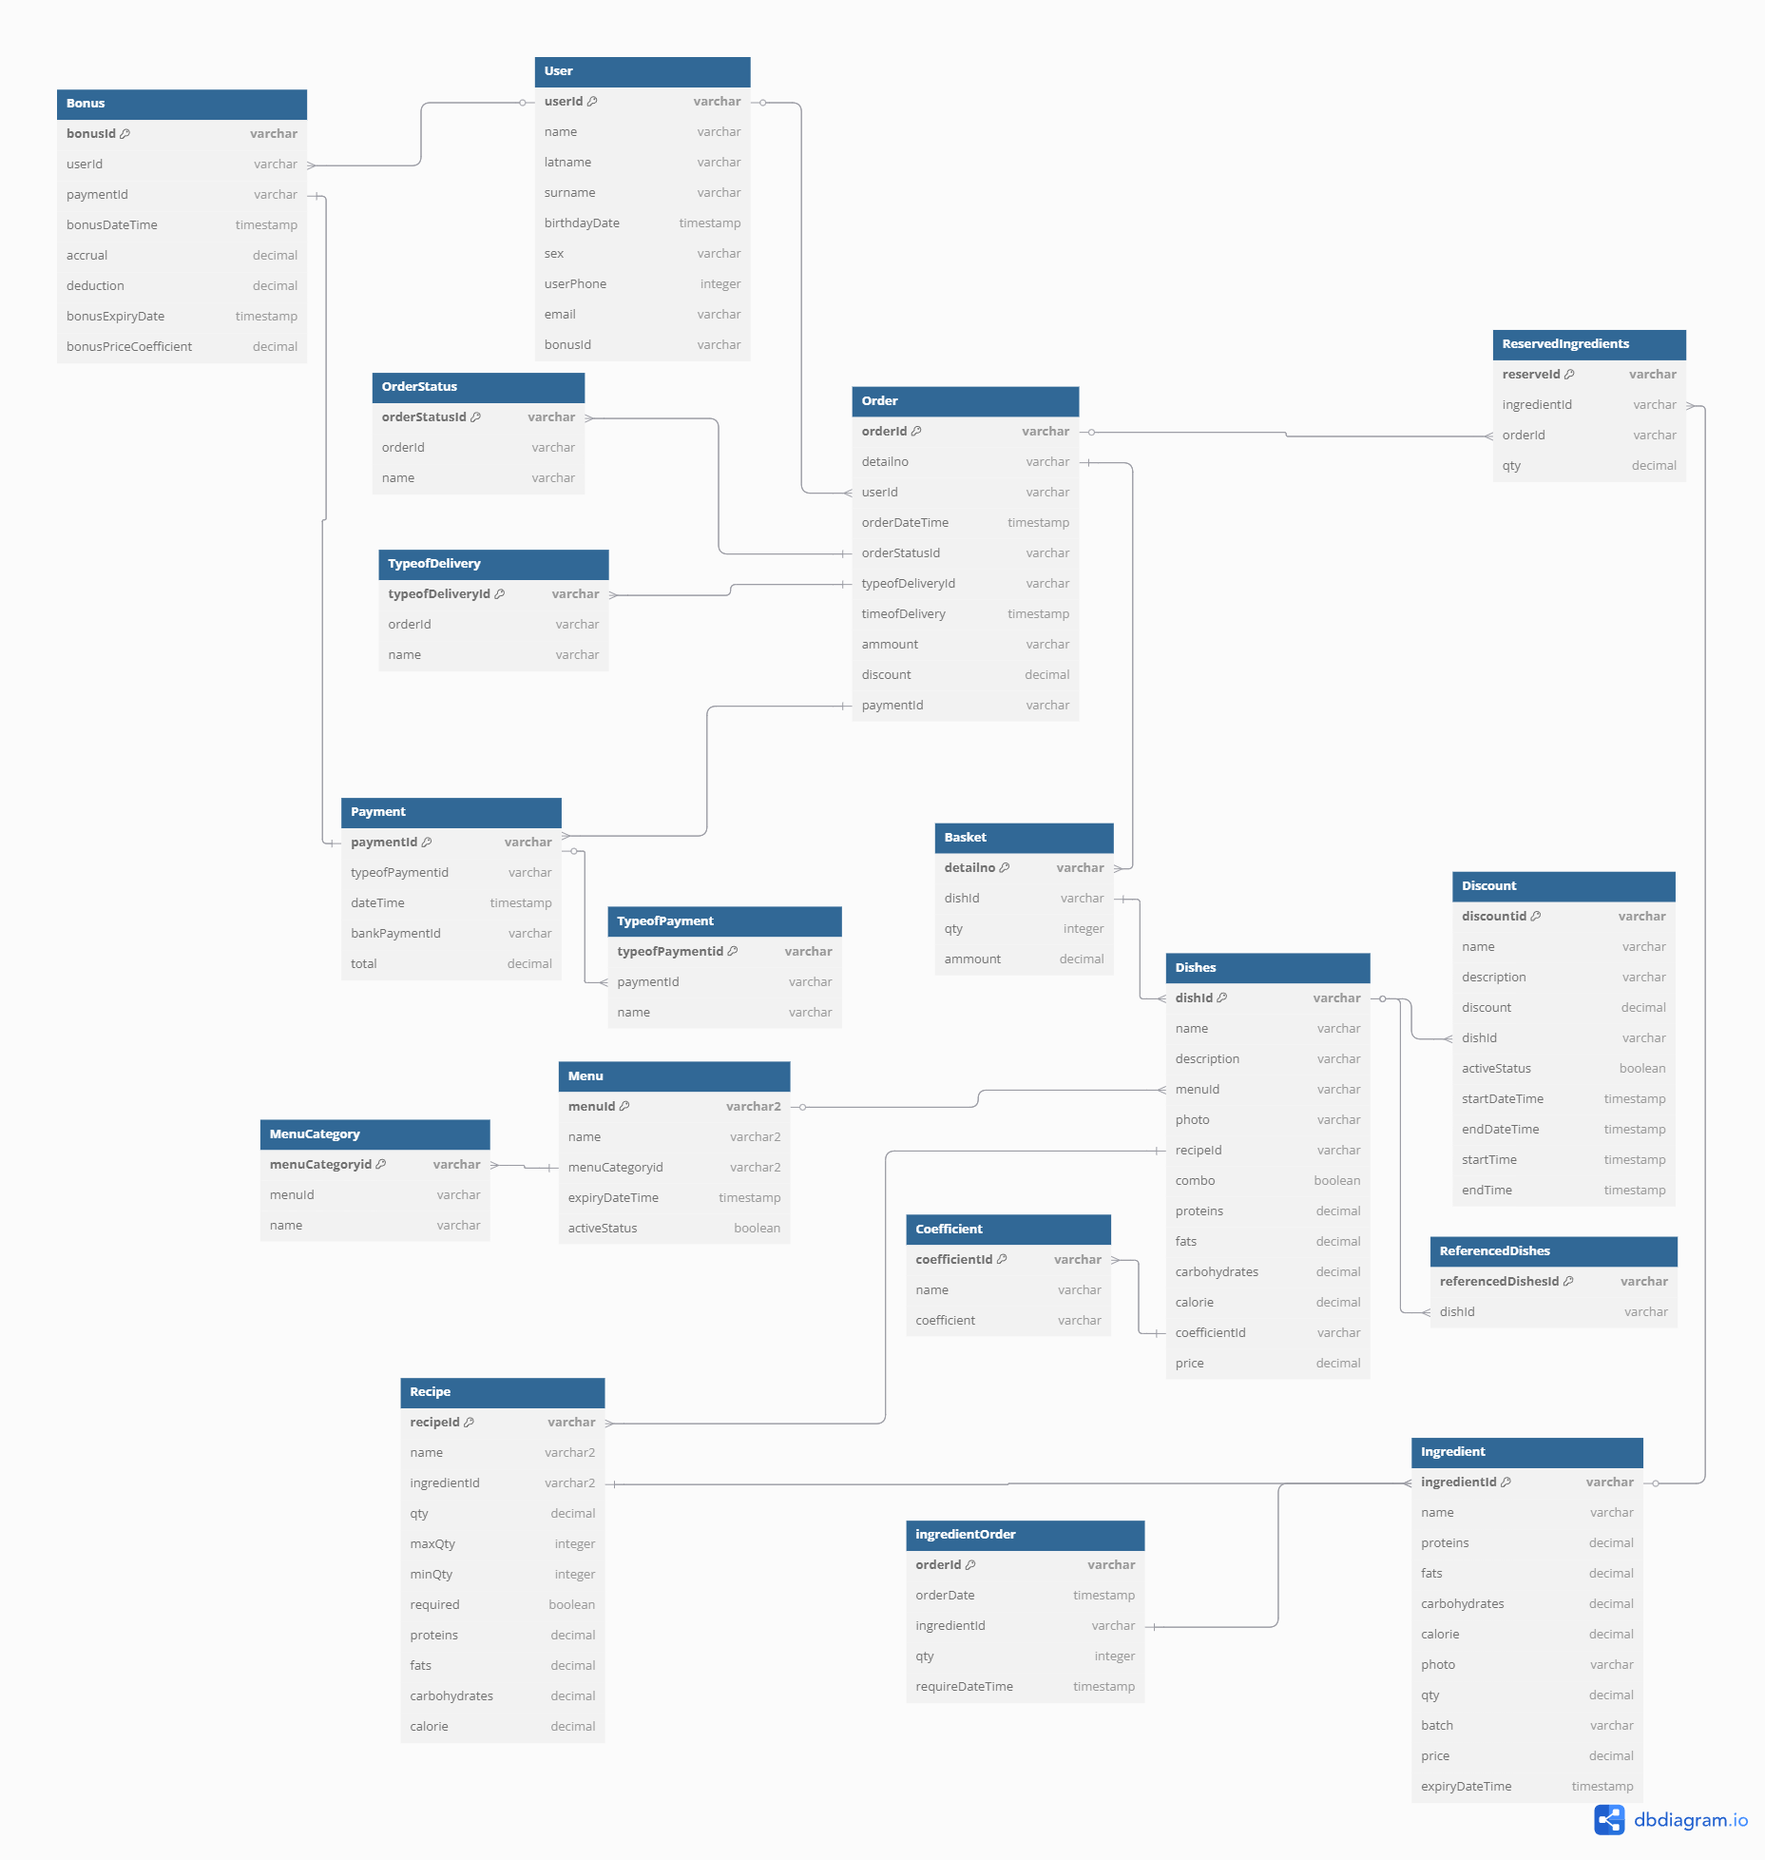
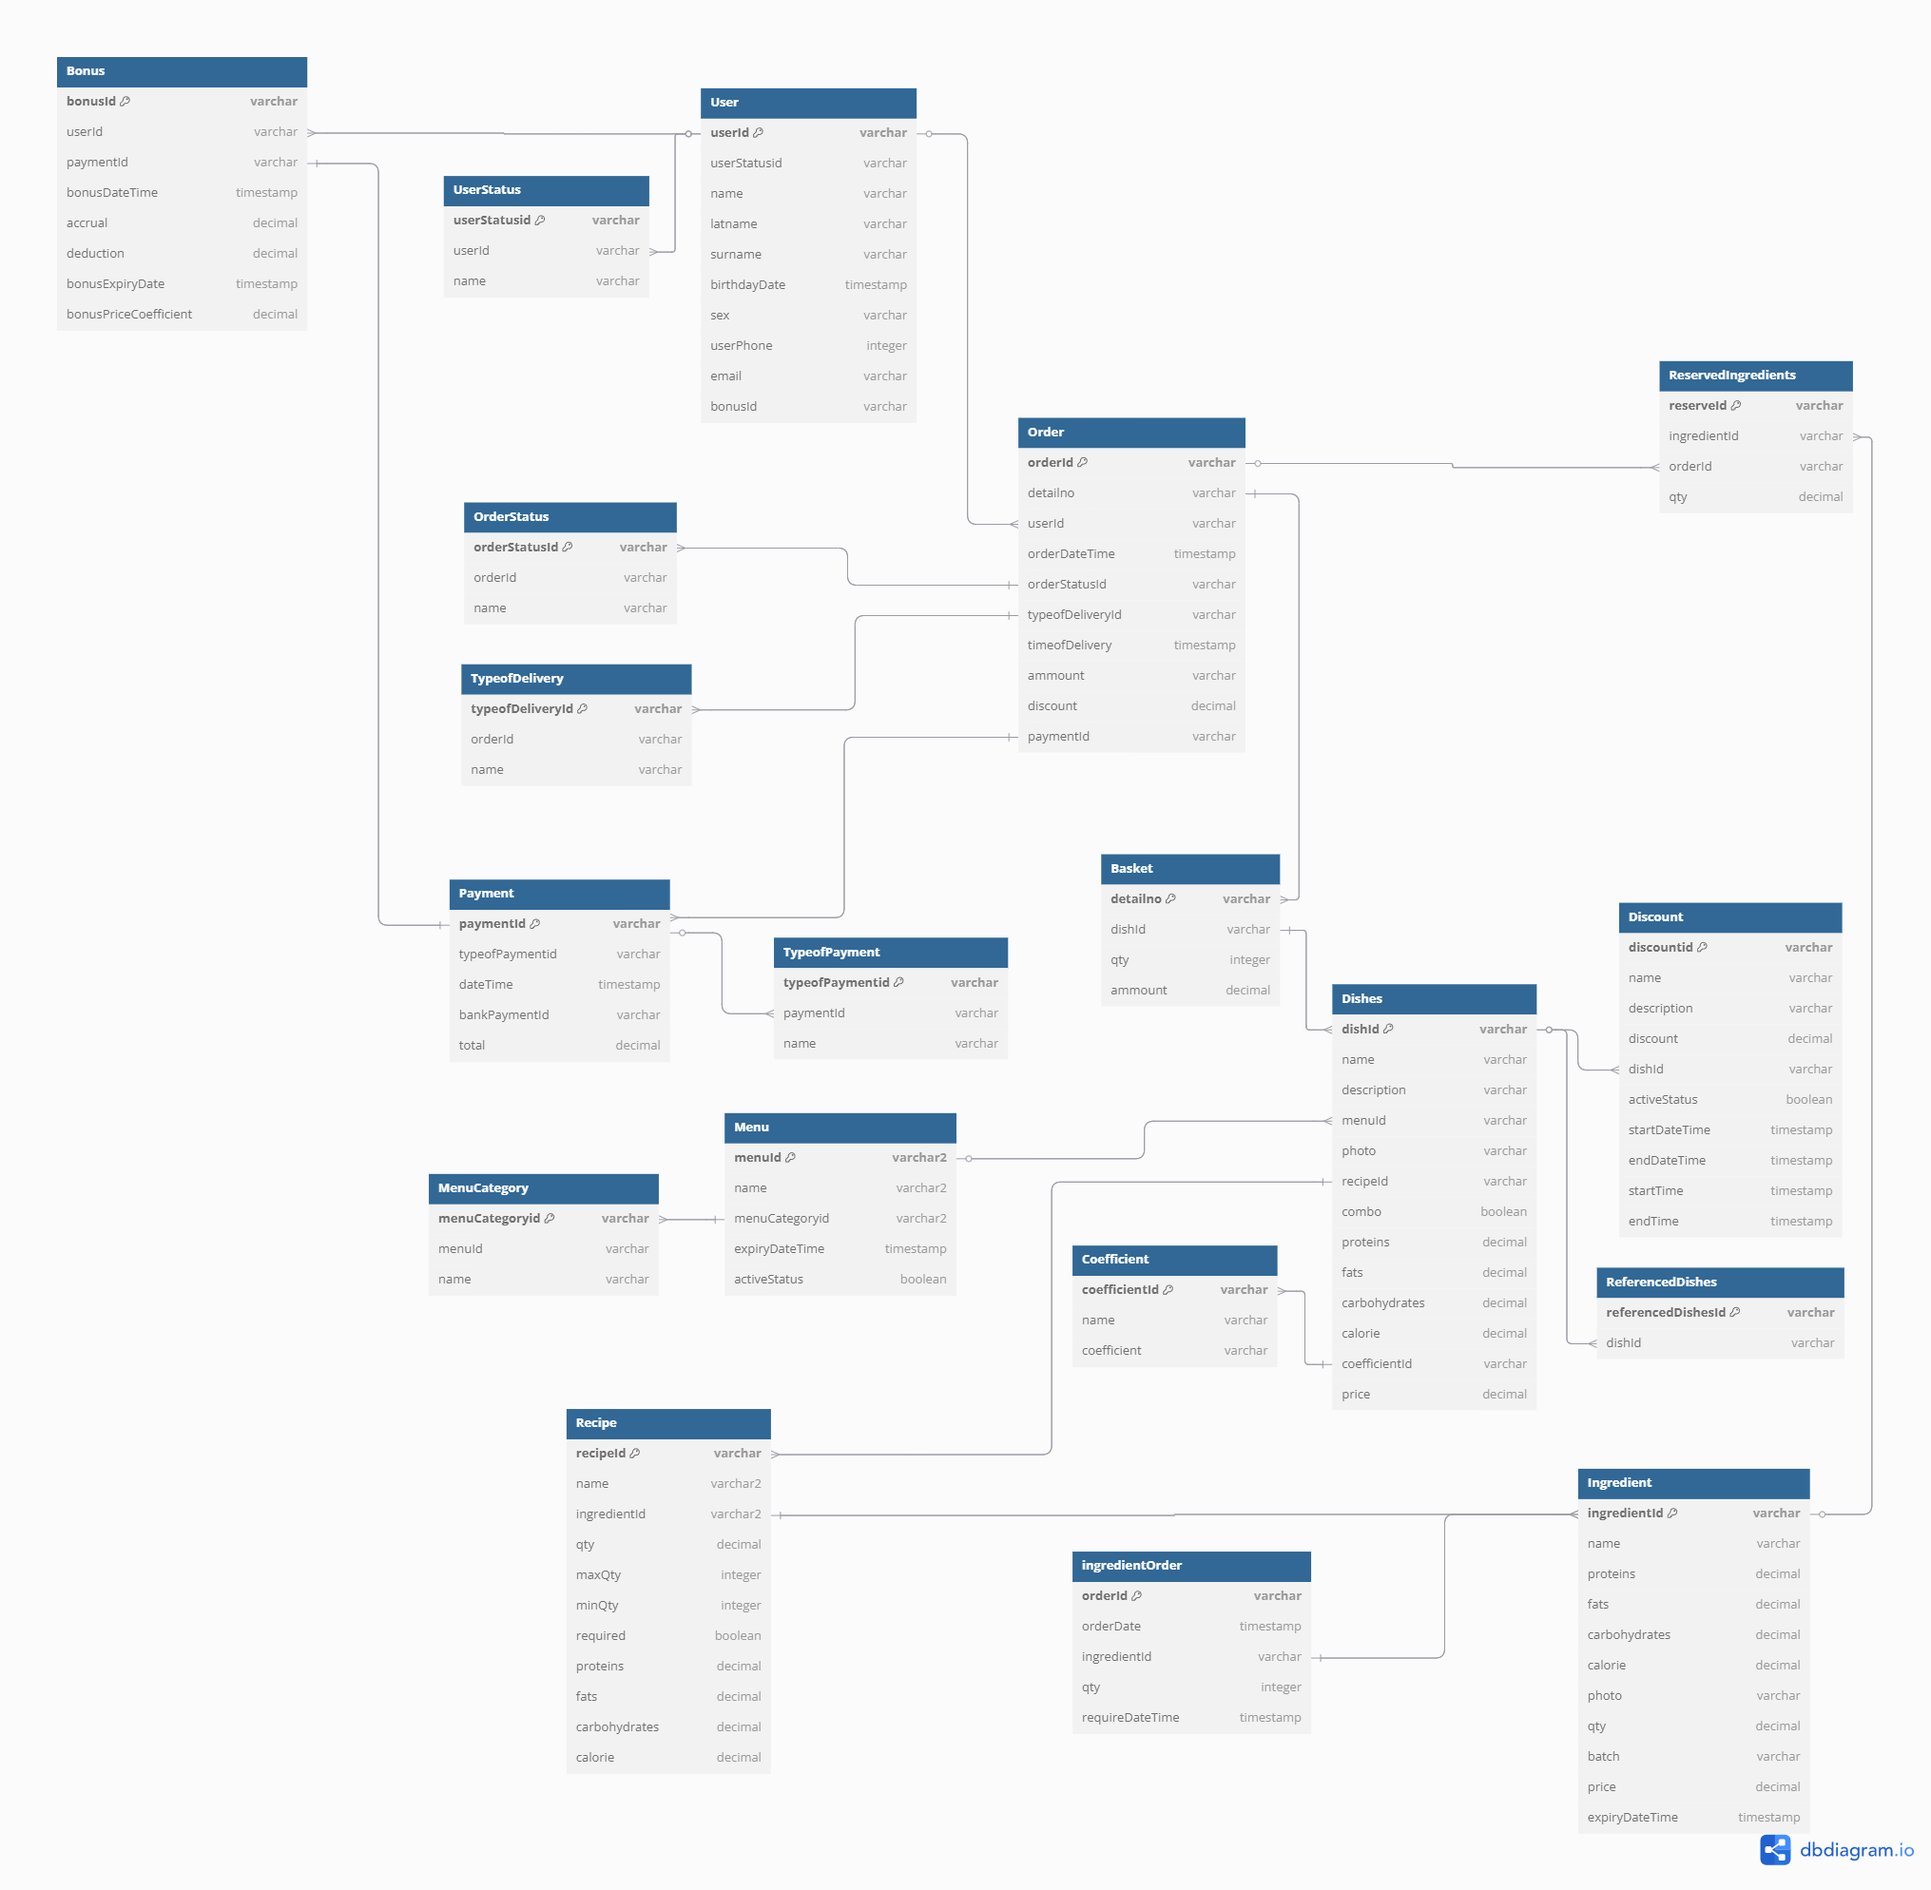
update

diff --git a/6_UML/ERDdiagram.md b/6_UML/ERDdiagram.md
@@ -1,5 +1,6 @@
 Table User {
   userId varchar [primary key]
+  userStatusid varchar
   name varchar
   latname varchar
   surname varchar
@@ -167,6 +168,12 @@ Table MenuCategory {
   name varchar
 }
 
+Table UserStatus {
+  userStatusid varchar [primary key]
+  userId varchar
+  name varchar
+}
+
 Ref: User.userId < Order.userId 
 Ref: Order.detailno < Basket.detailno
 Ref: Basket.dishId < Dishes.dishId
@@ -186,3 +193,5 @@ Ref: Order.orderStatusId< OrderStatus.orderStatusId
 Ref: Order.typeofDeliveryId< TypeofDelivery.typeofDeliveryId
 REf: TypeofPayment.paymentId> Payment.paymentId
 Ref: MenuCategory.menuCategoryid> Menu.menuCategoryid
+Ref: UserStatus.userId> User.userId
+

diff --git a/6_InformationModel.md b/6_InformationModel.md
@@ -15,4 +15,7 @@
 
 ## 6.2 Модель данных
 [Postgresql](6_UML/ERD.sql)
+
+[dbdiagram](https://dbdiagram.io/e/67a8dd5f263d6cf9a0887c59/67d45e0475d75cc844205647) 
+
 ![ERD](images/6_InfoMod/ERD.png)
